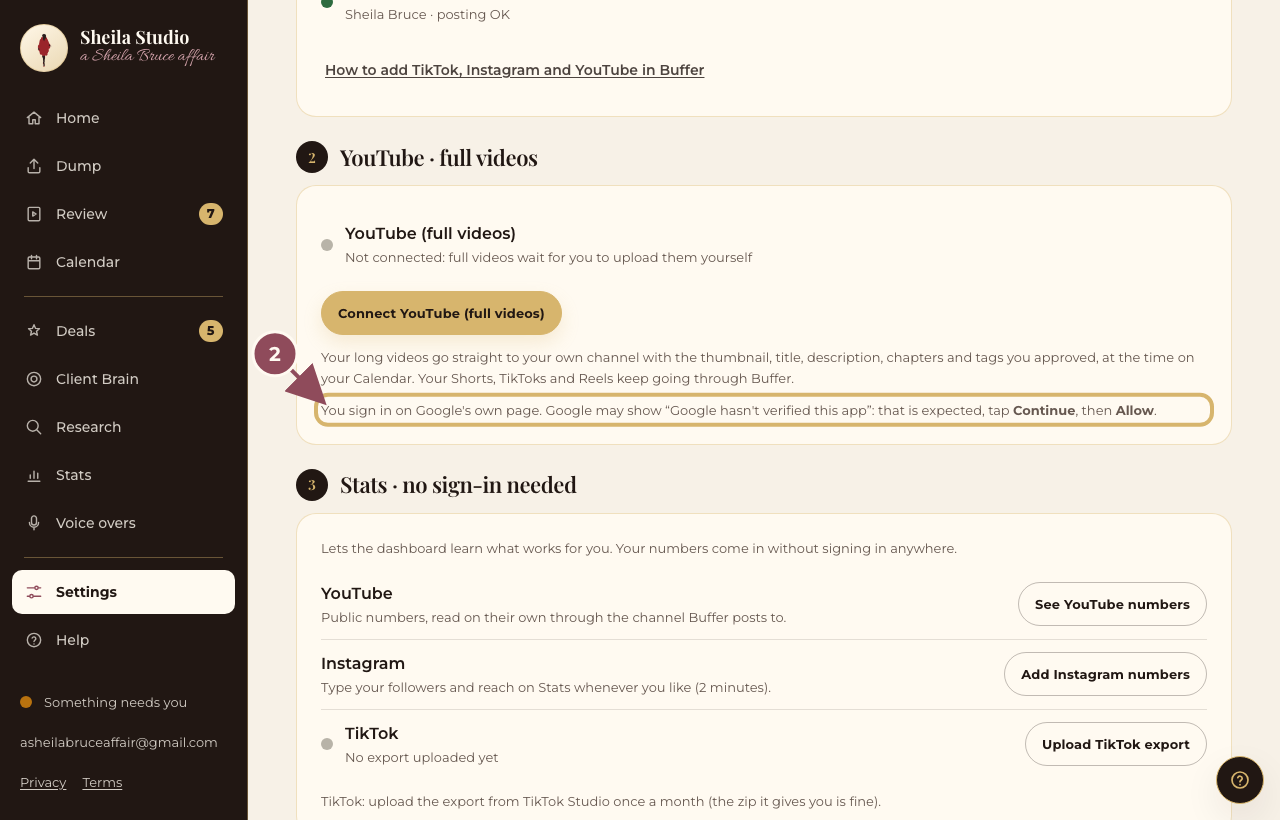
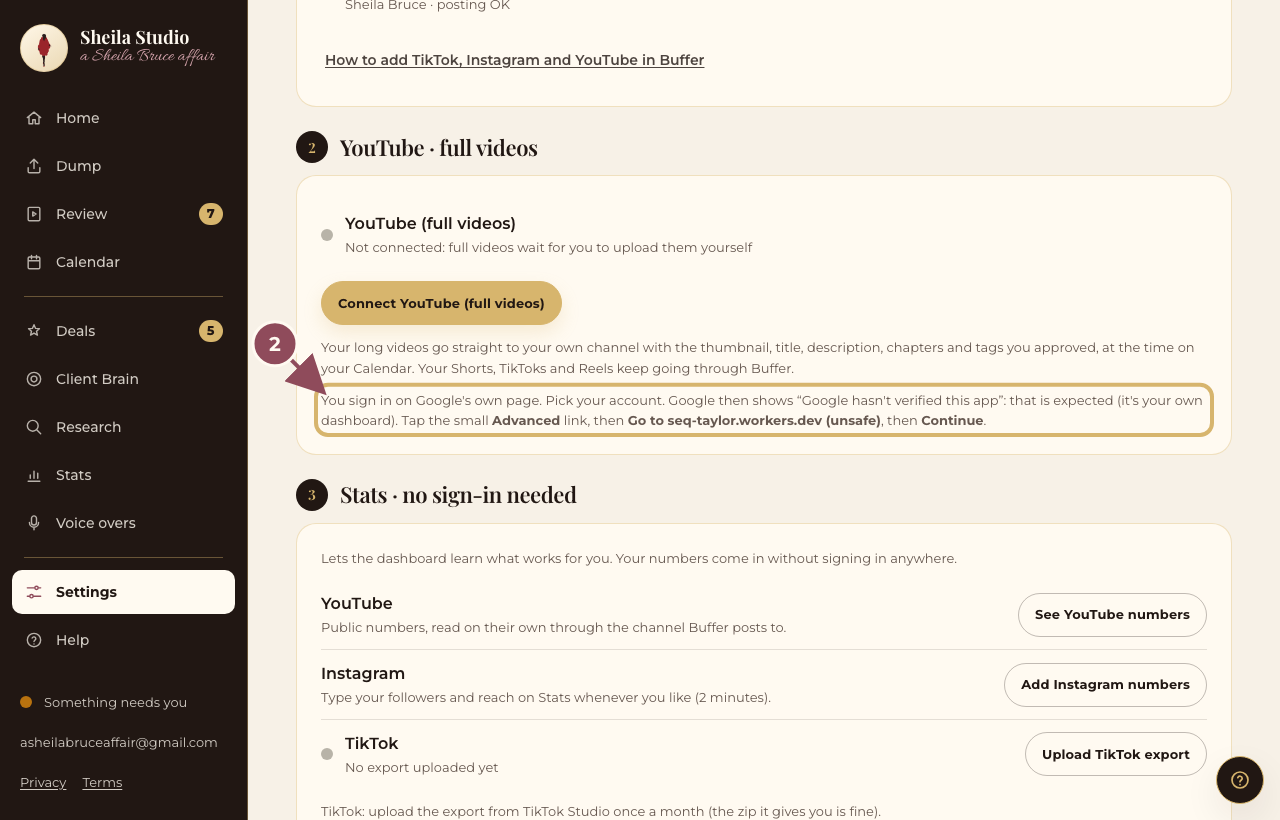
Connect YouTube: the real Google pages (Advanced, Go to seq-taylor.workers.dev (unsafe), Continue); Check everything now syncs YouTube; read-backs recorded exactly
Claude-Session: https://claude.ai/code/session_0198aZUrMGZdHeBFG3uvPqJs

diff --git a/worker/crons/buffer-sync.ts b/worker/crons/buffer-sync.ts
@@ -23,7 +23,7 @@ import { checkEditor, checkFirecrawl, checkHunter, checkOpenRouter, type KeyChec
 import { API_EDITORS } from "../domain/editors";
 import { writeEditorCheckLight } from "../lib/editorJobs";
 import { recheckElevenLabs } from "../lib/premiumVoice";
-import { directMode, writeLight as writeYouTubeLight, youtubeAccessToken } from "../lib/youtubeDirect";
+import { directMode, writeLight as writeYouTubeLight, youtubeAccessToken, youtubeDirectSync } from "../lib/youtubeDirect";
 import {
   bufferDueAt,
   channelHealth,
@@ -119,7 +119,7 @@ const CONNECTION_COPY: Record<string, { title: string; steps: string[]; guide: s
   [CHANNEL_HEALTH_NAME.instagram]: { title: "Instagram in Buffer", steps: ["Open Buffer and go to Channels.", "Next to Instagram press Reconnect.", "Log in to Instagram and press Allow."], guide: "reconnect-an-account" },
   [CHANNEL_HEALTH_NAME.youtube]: { title: "YouTube in Buffer", steps: ["Open Buffer and go to Channels.", "Next to YouTube press Reconnect.", "Log in to Google, pick your channel and press Allow."], guide: "reconnect-an-account" },
   meta: { title: "Instagram stats", steps: ["In your dashboard open Settings, Connect accounts.", "Under Instagram stats press Reconnect.", "Log in to Instagram and pick your account."], guide: "reconnect-meta" },
-  youtube: { title: "YouTube (full videos)", steps: ["In your dashboard open Settings, Connect accounts.", "Under YouTube · full videos tap Reconnect YouTube.", "Pick your Google account on Google's page and tap Allow. Until then your full videos wait on Home under Upload it yourself."], guide: "reconnect-youtube" },
+  youtube: { title: "YouTube (full videos)", steps: ["In your dashboard open Settings, Connect accounts.", "Under YouTube · full videos tap Reconnect YouTube.", "Pick your Google account, tap Advanced, then Go to seq-taylor.workers.dev (unsafe), then Continue. Until then your full videos wait on Home under Upload it yourself."], guide: "reconnect-youtube" },
   google: { title: "YouTube stats", steps: ["In your dashboard open Settings, Connect accounts.", "Under YouTube stats press Reconnect.", "Log in to Google and pick your channel."], guide: "reconnect-google" },
   tiktok: { title: "TikTok stats", steps: ["In your dashboard open Settings, Connect accounts.", "Under TikTok stats press Reconnect.", "Log in to TikTok and press Allow."], guide: "reconnect-tiktok" },
   openrouter: { title: "The AI (OpenRouter)", steps: ["Open OpenRouter and go to Keys.", "Create a new key and copy it.", "In your dashboard open Settings, Connect accounts, paste it under OpenRouter and press Check key."], guide: "reconnect-openrouter" },
@@ -398,8 +398,9 @@ export async function recheckEverything(env: Env): Promise<void> {
     await writeEditorCheckLight(env, editor, r.ok, r.error, r.meta);
   }
   await recheckElevenLabs(env); // the same code as the daily lane: one "Voice · ElevenLabs" light
-  // Connect YouTube (full videos): a refresh proves Google still accepts her sign-in (red if not).
-  if ((await directMode(env)) === "on") await youtubeAccessToken(env);
+  // Connect YouTube (full videos): a refresh proves Google still accepts her sign-in (red if not),
+  // then the same sync the hourly lane runs (uploads due, Calendar moves, read-backs), at once.
+  if ((await directMode(env)) === "on" && (await youtubeAccessToken(env))) await youtubeDirectSync(env);
   await writeYouTubeLight(env);
   const waiting = (await env.DB.prepare("SELECT COUNT(*) AS n FROM posts WHERE status = 'planned' AND scheduled_at < ?").bind(new Date(Date.now() + 7 * 86400_000).toISOString()).first<{ n: number }>())?.n ?? 0;
   await writeHealth(env, buf, buf.ok ? 0 : waiting);

diff --git a/tests/e2e/help-mocks.ts b/tests/e2e/help-mocks.ts
@@ -264,17 +264,22 @@ export const MOCKS: Record<string, Frame> = {
     { k: "row", v: "Advanced", action: "Go to Sheila Studio", hl: true },
   ]),
   // Connect YouTube (full videos): the same Google pages, with the upload permission she allows.
-  "youtube-unverified": apiPage("Google", "accounts.google.com", [], "", "Google hasn't verified this app", [
-    { k: "p", v: "Expected: Sheila Studio is your own dashboard. Tap Continue." },
-    { k: "btn", v: "Continue", hl: true },
-  ]),
-  "youtube-account": apiPage("Google", "accounts.google.com", [], "", "Choose an account to continue to Sheila Studio", [
+  "youtube-account": apiPage("Google", "accounts.google.com", [], "", "Choose an account to continue to seq-taylor.workers.dev", [
     { k: "row", v: "The Google account your YouTube channel is on", action: "Pick", hl: true },
   ]),
-  "youtube-allow": apiPage("Google", "accounts.google.com/consent", [], "", "Sheila Studio wants access to your Google Account", [
+  "youtube-unverified": apiPage("Google", "accounts.google.com", [], "", "Google hasn't verified this app", [
+    { k: "p", v: "The app is requesting access to sensitive info in your Google Account." },
+    { k: "btn", v: "BACK TO SAFETY", quiet: true },
+    { k: "row", v: "Advanced", action: "Tap", hl: true },
+  ]),
+  "youtube-unsafe": apiPage("Google", "accounts.google.com", [], "", "Google hasn't verified this app", [
+    { k: "p", v: "Continue only if you understand the risks and trust the developer." },
+    { k: "row", v: "Go to seq-taylor.workers.dev (unsafe)", action: "Tap", hl: true },
+  ]),
+  "youtube-allow": apiPage("Google", "accounts.google.com/consent", [], "", "seq-taylor.workers.dev wants access to your Google Account", [
     { k: "check", v: "Manage your YouTube videos", on: true },
     { k: "check", v: "View your YouTube account", on: true },
-    { k: "btn", v: "Allow", hl: true },
+    { k: "btn", v: "Continue", hl: true },
   ]),
   "youtube-channel": apiPage("YouTube", "youtube.com", ["Home", "Shorts", "You"], "You", "Your channel", [
     { k: "field", label: "Handle", value: "@yourchannel", hl: true },

diff --git a/app/pages/Connect.tsx b/app/pages/Connect.tsx
@@ -395,7 +395,7 @@ const OAUTH_ERRORS: Record<string, string> = {
   denied: "the sign-in was cancelled, so nothing was connected.",
   expired: "the sign-in took too long. Press Connect again.",
   no_account: "that account has no Professional Instagram or YouTube channel to read.",
-  no_upload: "Google didn't give permission to upload. Tap Connect YouTube again, leave every box ticked, then tap Allow.",
+  no_upload: "Google didn't give permission to upload. Tap Connect YouTube again, leave every box ticked, then tap Continue.",
   failed: "the connection did not finish. Press Connect again.",
 };
 
@@ -491,7 +491,7 @@ function TikTokRow({ conn }: { conn: ConnectionView | null }) {
 
 /**
  * Connect YouTube (full videos): her own Google sign-in, once. The only thing she ever does is tap
- * the button, pick her Google account on Google's page and tap Allow (worker/routes/oauth.ts
+ * the button, pick her Google account, Advanced, Go to seq-taylor.workers.dev (unsafe), Continue (worker/routes/oauth.ts
  * /api/oauth/youtube/start). Red when Google refused the sign-in: Reconnect YouTube.
  */
 function YouTubeDirectCard({ conn, owner, onChange }: { conn: ConnectionView | null; owner: boolean; onChange: () => void }) {
@@ -542,7 +542,7 @@ function YouTubeDirectCard({ conn, owner, onChange }: { conn: ConnectionView | n
       </div>
       {status !== "ok" ? (
         <div className="hint" data-unverified-note>
-          You sign in on Google's own page. Google may show “Google hasn't verified this app”: that is expected, tap <strong>Continue</strong>, then <strong>Allow</strong>.
+          You sign in on Google's own page. Pick your account. Google then shows “Google hasn't verified this app”: that is expected (it's your own dashboard). Tap the small <strong>Advanced</strong> link, then <strong>Go to seq-taylor.workers.dev (unsafe)</strong>, then <strong>Continue</strong>.
         </div>
       ) : null}
     </Card>

diff --git a/tests/e2e/youtube-direct.spec.ts b/tests/e2e/youtube-direct.spec.ts
@@ -1,5 +1,5 @@
 // Connect YouTube (full videos), phone and desktop, fake services. She taps one button on Connect
-// (the fake sign-in answers at once, as Google's Allow would); an approved full video on the
+// (the fake sign-in answers at once, as Google's Continue would); an approved full video on the
 // Calendar then uploads through the hourly lane and the ytupload job to the stand-in YouTube,
 // which answers YouTube's real bodies (shared/youtube-errors.json) for the scenario set in the
 // settings row `fake_youtube`. Review says where it stands; Home names every failure: the
@@ -68,7 +68,7 @@ async function homeNotice(page: Page, key: string) {
 async function connectYouTube(page: Page) {
   await page.goto("/settings/connections");
   const card = page.locator("[data-youtube-direct]");
-  await expect(card.getByText("Google may show “Google hasn't verified this app”")).toBeVisible();
+  await expect(card.getByText("Google then shows “Google hasn't verified this app”")).toBeVisible();
   await card.getByRole("link", { name: "Connect YouTube (full videos)" }).click();
   await expect(page.getByText("YouTube connected. Your full videos now upload straight to your channel")).toBeVisible();
   await expect(card.getByText(/Connected · Sheila Bruce/)).toBeVisible();

diff --git a/worker/lib/youtubeDirect.ts b/worker/lib/youtubeDirect.ts
@@ -226,6 +226,8 @@ async function readBackAndVerify(env: Env, clipId: string, token: string, publis
     return false;
   }
   const back = got.items[r.video_id] ?? null;
+  // What YouTube answered, exactly (status fields only, never content): the measurement behind the verdict.
+  await recordEvent(env.DB, "ytdirect.readback", clipId, { video_id: r.video_id, found: !!back, privacyStatus: back?.privacyStatus ?? null, publishAt: back?.publishAt ?? null, uploadStatus: back?.uploadStatus ?? null, failureReason: back?.failureReason ?? null, rejectionReason: back?.rejectionReason ?? null });
   const planned: Intent = { privacyStatus: r.privacy, publishAt: r.publish_at };
   if (published && back?.privacyStatus === "private" && back.publishAt && r.publish_at && Math.abs(Date.parse(back.publishAt) - Date.parse(r.publish_at)) < 1000) return false;
   const intent: Intent = published ? { privacyStatus: "public", publishAt: null } : planned;

diff --git a/tests/unit/youtube-direct.test.ts b/tests/unit/youtube-direct.test.ts
@@ -181,6 +181,8 @@ describe("upload → read back → follow the Calendar", () => {
     expect(Date.parse(u.publish_at!)).toBeGreaterThan(Date.now());
     expect((await readFake(env)).videos[u.video_id!]).toMatchObject({ privacyStatus: "private", publishAt: u.publish_at });
     expect(one<{ status: string }>("SELECT status FROM posts WHERE id = ?", v.post).status).toBe("planned");
+    // what videos.list answered is kept exactly (status fields only)
+    expect(JSON.parse(one<{ detail: string }>("SELECT detail FROM events WHERE kind = 'ytdirect.readback' AND ref_id = ?", v.clip).detail)).toEqual({ video_id: u.video_id, found: true, privacyStatus: "private", publishAt: u.publish_at, uploadStatus: "uploaded", failureReason: null, rejectionReason: null });
     expect(await fullVideoCards(env)).toEqual([]);
     expect(light().light).toBe("green");
     // her words live on YouTube now: edits refuse with where to change them

diff --git a/worker/routes/oauth.ts b/worker/routes/oauth.ts
@@ -179,7 +179,7 @@ oauth.get("/:provider/callback", requireOwner, async (c) => {
     try {
       const { token, account, scope } = await exchangeGoogle(c.env, app, code);
       // Google's consent page lets her untick a box: without upload the videos cannot go up.
-      if (!scope.split(" ").includes(YT_UPLOAD_SCOPES[0])) throw new OAuthStop("no_upload", "Google didn't give permission to upload. Tap Connect YouTube again and leave every box ticked, then Allow.");
+      if (!scope.split(" ").includes(YT_UPLOAD_SCOPES[0])) throw new OAuthStop("no_upload", "Google didn't give permission to upload. Tap Connect YouTube again and leave every box ticked, then tap Continue.");
       await storeYouTube(c.env, token, account, scope, c.get("user").email);
       return c.redirect(back("connected=youtube"));
     } catch (e) {

diff --git a/worker/domain/youtubeDirect.ts b/worker/domain/youtubeDirect.ts
@@ -1,5 +1,5 @@
 // Full videos straight to her own YouTube channel (owner decision, 26 Sep 2026): Sheila taps
-// "Connect YouTube" once, signs in on Google's page and taps Allow; from then on every full video
+// "Connect YouTube" once, signs in on Google's page and taps Continue; from then on every full video
 // she approves uploads to her channel from a GitHub Actions job (resumable upload, videos.insert)
 // and is read back to prove it landed the way she asked. Buffer keeps posting the Shorts, TikTok
 // and Instagram clips. Pure rules, unit-tested (tests/unit/youtube-direct.test.ts); the Worker side

diff --git a/help/guides/connect-youtube-full-videos.md b/help/guides/connect-youtube-full-videos.md
@@ -17,28 +17,33 @@ Do this once. Your full videos then upload straight to your own YouTube channel 
 
 On **Settings**, **Connect accounts**, under **YouTube · full videos**, tap **Connect YouTube (full videos)**.
 
-## If Google says it hasn't verified the app, tap Continue
-
-![Step 2](/help/screenshots/connect-youtube-full-videos-2.png)
-<!-- mock: youtube-unverified -->
-<!-- shared -->
-
-Google may show **Google hasn't verified this app**. That is expected: Sheila Studio is your own dashboard. Tap **Continue** (on some phones: **Advanced**, then **Go to Sheila Studio**).
-
 ## Pick your Google account
 
-![Step 3](/help/screenshots/connect-youtube-full-videos-3.png)
+![Step 2](/help/screenshots/connect-youtube-full-videos-2.png)
 <!-- mock: youtube-account -->
 
 Pick the Google account your YouTube channel is on.
 
-## Tap Allow
+## Tap the small Advanced link
+
+![Step 3](/help/screenshots/connect-youtube-full-videos-3.png)
+<!-- mock: youtube-unverified -->
+
+Google shows **Google hasn't verified this app**. That is expected: it's your own dashboard, not an app Google has reviewed. Don't tap Back to safety; tap the small **Advanced** link.
+
+## Tap Go to seq-taylor.workers.dev (unsafe)
 
 ![Step 4](/help/screenshots/connect-youtube-full-videos-4.png)
-<!-- mock: youtube-allow -->
-<!-- shared -->
+<!-- mock: youtube-unsafe -->
 
-Leave both boxes ticked and tap **Allow**. You're back on Connect with a green light. That's all: nothing else to do, ever. Uploads that go public later wait on your channel as private until their time.
+Tap **Go to seq-taylor.workers.dev (unsafe)**. Google says "unsafe" only because it hasn't reviewed the app; seq-taylor.workers.dev is where your dashboard lives.
+
+## Tap Continue
+
+![Step 5](/help/screenshots/connect-youtube-full-videos-5.png)
+<!-- mock: youtube-allow -->
+
+Leave both boxes ticked and tap **Continue**. You're back on Connect with a green light. That's all: nothing else to do, ever.
 
 ## Did this work?
 

diff --git a/help/guides/reconnect-youtube.md b/help/guides/reconnect-youtube.md
@@ -17,21 +17,21 @@ Google stopped accepting the dashboard's sign-in (you removed its access, or Goo
 
 On **Settings**, **Connect accounts**, under **YouTube · full videos**, tap **Reconnect YouTube** (the light is red).
 
-## If Google says it hasn't verified the app, tap Continue
+## Tap Advanced, then Go to seq-taylor.workers.dev (unsafe)
 
 ![Step 2](/help/screenshots/reconnect-youtube-2.png)
-<!-- mock: youtube-unverified -->
+<!-- mock: youtube-unsafe -->
 <!-- shared -->
 
-That is expected: Sheila Studio is your own dashboard.
+Pick your account. On **Google hasn't verified this app**, tap the small **Advanced** link, then **Go to seq-taylor.workers.dev (unsafe)**. It's your own dashboard.
 
-## Pick your account and tap Allow
+## Tap Continue
 
 ![Step 3](/help/screenshots/reconnect-youtube-3.png)
 <!-- mock: youtube-allow -->
 <!-- shared -->
 
-Pick your account and tap **Allow**. The light turns green and waiting videos upload within the hour.
+Leave both boxes ticked and tap **Continue**. The light turns green and waiting videos upload within the hour.
 
 ## Did this work?
 

diff --git a/RUNBOOK.md b/RUNBOOK.md
@@ -551,7 +551,7 @@ Proven on staging 25 Sep 2026: the real zip imported 5 videos with exact post ti
 ## YouTube: full videos straight to her channel
 
 Owner decision (26 Sep 2026): Sheila taps **Connect YouTube (full videos)** on Connect once, signs in
-on Google's page and taps Allow (Google may show "Google hasn't verified this app": Continue). From
+on Google's page (pick the account; on "Google hasn't verified this app" the small Advanced link, then "Go to seq-taylor.workers.dev (unsafe)"; then Continue on the consent page). From
 then on every approved full video on the Calendar goes to her own channel; Buffer keeps posting the
 Shorts, TikTok and Instagram clips. Code: `worker/domain/youtubeDirect.ts` (rules),
 `worker/lib/youtubeDirect.ts` (sync, read-back, light), `worker/services/youtubeDirect.ts` (real +

diff --git a/help/guides/connect-youtube.md b/help/guides/connect-youtube.md
@@ -17,13 +17,13 @@ One tap on Connect, then Google's own page. The long version with pictures of Go
 
 On **Settings**, **Connect accounts**, the second box is **YouTube · full videos**. Tap **Connect YouTube (full videos)**.
 
-## Continue, then Allow
+## Advanced, Go to seq-taylor.workers.dev (unsafe), Continue
 
 ![Step 2](/help/screenshots/connect-youtube-2.png)
 <!-- route: /settings/connections -->
 <!-- target: [data-youtube-direct] [data-unverified-note] -->
 
-Google may say it hasn't verified the app: tap **Continue**. Pick your account and tap **Allow**.
+Pick your account. Google says it hasn't verified the app: tap the small **Advanced** link, then **Go to seq-taylor.workers.dev (unsafe)**, then **Continue**. The long guide has a picture of each page.
 
 ## Check the light
 
